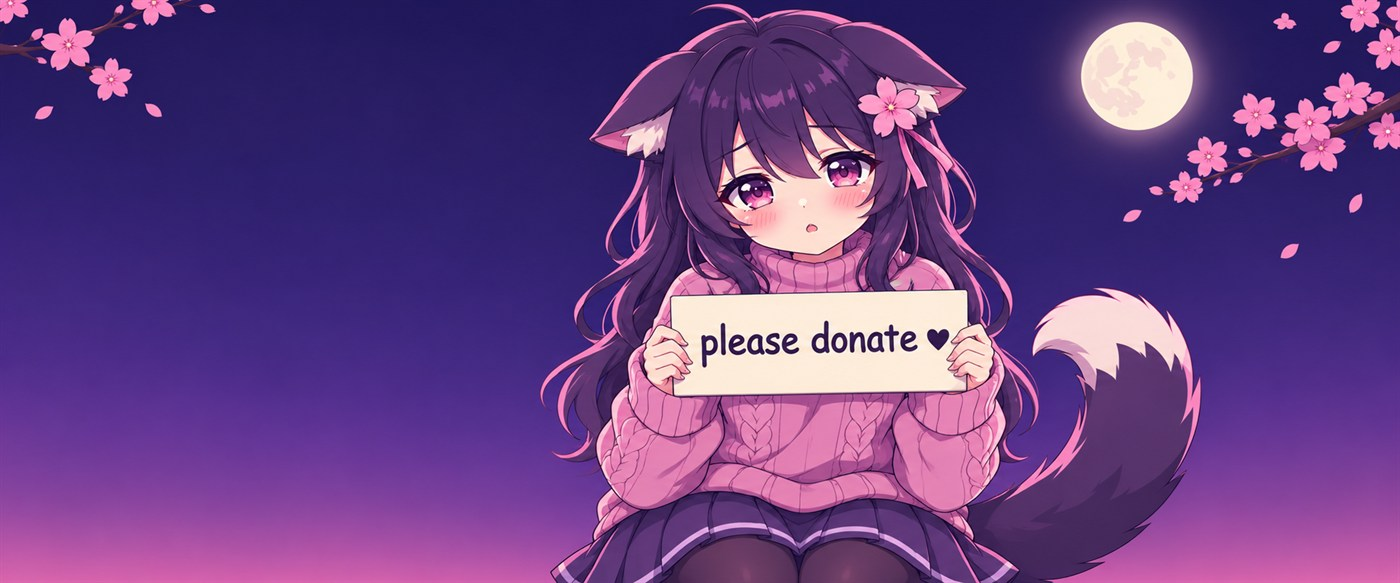
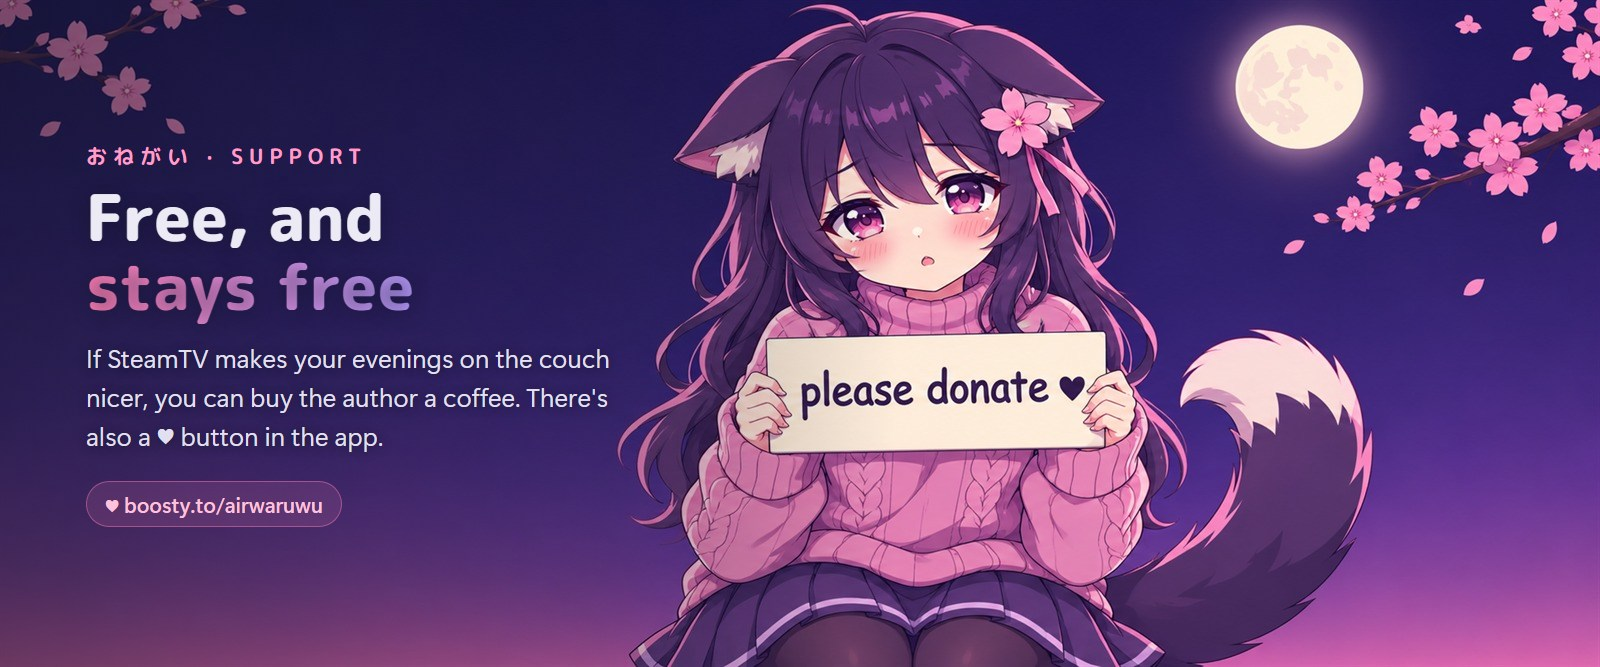
README: Support text on the donate picture, Boosty link kept below it

diff --git a/docs/design/readme-cards.html b/docs/design/readme-cards.html
@@ -1,7 +1,7 @@
 <!DOCTYPE html>
 <!-- README picture cards: the catgirl art (docs/design/art) with README text laid over it, in the app's
-     fonts. Render one card with headless Edge at 1600x667: readme-cards.html#couch or #how
-     → docs/screenshots/catgirl-couch.jpg / catgirl-tv.jpg. -->
+     fonts. Render one card with headless Edge at 1600x667: readme-cards.html#couch, #how or #donate
+     → docs/screenshots/catgirl-couch.jpg / catgirl-tv.jpg / catgirl-donate.jpg. -->
 <html><head><meta charset="utf-8"><style>
 @font-face { font-family: "MPR"; src: url("../../Fonts/MPLUSRounded1c-ExtraBold.ttf"); font-weight: 800; }
 @font-face { font-family: "MPR"; src: url("../../Fonts/MPLUSRounded1c-Bold.ttf"); font-weight: 700; }
@@ -44,6 +44,16 @@ p b { color: #fff; font-weight: 600; }
     <div class="step"><div class="num">1</div><p><b>A controller connects</b> → the TV wakes over Wi-Fi, switches to the PC's HDMI, the sound follows, Big Picture opens.</p></div>
     <div class="step"><div class="num">2</div><p><b>Big Picture closes</b> → your monitors, sound and TV come back.</p></div>
     <p class="note">No HDMI-CEC needed. Works with Android / Google TVs over ADB.</p>
+  </div>
+</div>
+
+<div class="card" id="donate" style="background-image: url('art/catgirl-donate.jpg')">
+  <div class="fade"></div>
+  <div class="copy" style="width: 560px">
+    <div class="kana">おねがい · SUPPORT</div>
+    <h2>Free, and<br><i>stays free</i></h2>
+    <p>If SteamTV makes your evenings on the couch nicer, you can buy the author a coffee. There's also a ♥ button in the app.</p>
+    <div class="chips"><span class="chip">♥ boosty.to/airwaruwu</span></div>
   </div>
 </div>
 

diff --git a/README.md b/README.md
@@ -85,9 +85,9 @@ Discovery is published again whenever Home Assistant restarts.
 
 ## Support
 
-<p align="center"><a href="https://boosty.to/airwaruwu/donate"><img src="docs/screenshots/catgirl-donate.jpg" width="760" alt="A catgirl holding a &quot;please donate&quot; sign — support SteamTV on Boosty"></a></p>
+<p align="center"><a href="https://boosty.to/airwaruwu/donate"><img src="docs/screenshots/catgirl-donate.jpg" alt="Free, and stays free. If SteamTV makes your evenings on the couch nicer, you can buy the author a coffee. There's also a ♥ button in the app."></a></p>
 
-SteamTV is free and stays free. If it makes your evenings on the couch nicer, you can buy the author a coffee on **[Boosty](https://boosty.to/airwaruwu/donate)** — there's also a ♥ button in the app.
+<p align="center"><b><a href="https://boosty.to/airwaruwu/donate">♥ Support SteamTV on Boosty</a></b></p>
 
 ---
 
